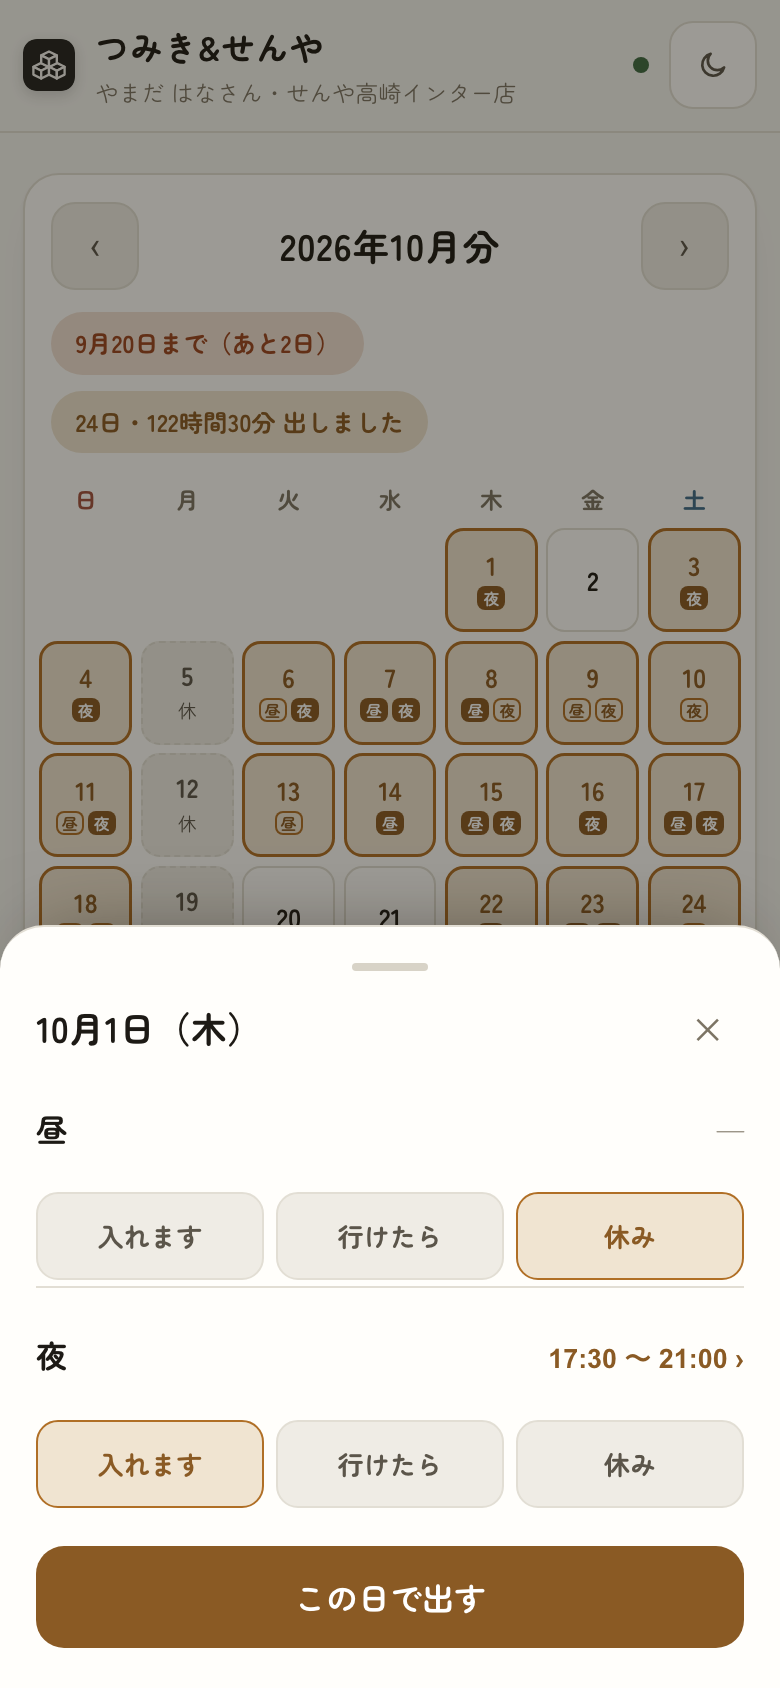
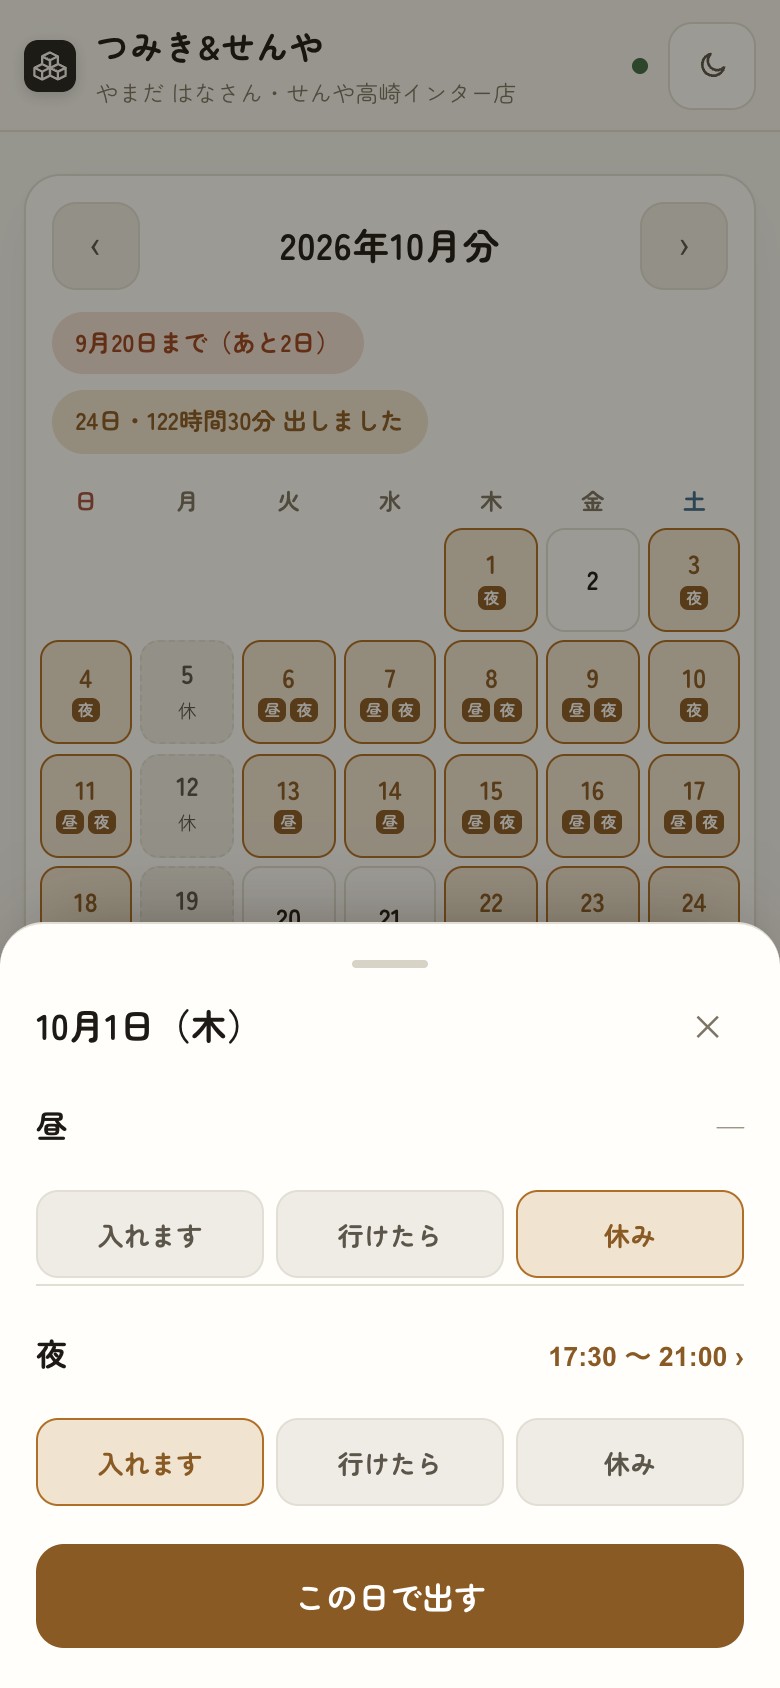
せんや：先行ご案内を「予告」として読みやすくした（文章を半分に・スタッフの画面を6枚に）
- 重複していた3か所（リード／制作の背景／くわしく）を圧縮：本文 1371字 → 708字
- 先行ご案内の但し書きを表紙の下へ移動（最初に見えるのが注意書きだった）
- 表紙に「8月31日におわたしします」を明示
- スタッフの画面を3枚→6枚に増やし、短い4点の説明を追加
- 「明日、おわたしするもの」と店長の3ステップを追加
- 情報パネル（816px）を折りたたみに
- 8幅×折りたたみ開閉の16通りで横スクロール0件・はみ出し0件を実測

Claude-Session: https://claude.ai/code/session_01DWoX3yqfatH4BJpkcV2QZm

diff --git a/senya-goannai.html b/senya-goannai.html
@@ -71,6 +71,28 @@ body{
 .as-about{font-size:14px; line-height:1.95; color:#3a3833; margin-top:14px;}
 .as-bg{font-size:14px; line-height:1.95; color:#3a3833; margin-top:14px;}
 .as-about strong,.as-bg strong{font-weight:700; color:var(--ink);}
+.fold{margin-top:14px; border:1px solid var(--line); border-radius:18px;
+  background:var(--card); overflow:hidden;}
+.fold > summary{list-style:none; cursor:pointer; padding:15px 18px; min-height:44px;
+  display:flex; align-items:center; justify-content:space-between; gap:12px;
+  font-size:14px; font-weight:700; color:var(--ink); line-height:1.7;}
+.fold > summary::-webkit-details-marker{display:none;}
+.fold > summary::after{content:'＋'; color:var(--accent); font-weight:700; flex:0 0 auto;}
+.fold[open] > summary::after{content:'－';}
+.fold[open] > summary{border-bottom:1px solid var(--line);}
+.fold .panel{border:none; border-radius:0; margin-top:0;}
+.mini{margin-top:14px; border:1px solid var(--line); border-radius:18px;
+  overflow:hidden; background:var(--card);}
+.mini > div{padding:14px 18px; border-top:1px solid var(--line);}
+.mini > div:first-child{border-top:none;}
+.mini b{display:block; font-size:14px; font-weight:700; line-height:1.7; color:var(--ink);}
+.mini span{display:block; font-size:13px; color:#3a3833; line-height:1.85; margin-top:3px;}
+.steps{list-style:none; margin-top:14px; display:grid; gap:8px;}
+.steps li{display:grid; grid-template-columns:auto minmax(0,1fr); gap:13px; align-items:baseline;
+  background:var(--card); border:1px solid var(--line); border-radius:14px; padding:13px 16px;
+  font-size:13.5px; line-height:1.8; color:#3a3833;}
+.steps .n{font-size:12px; font-weight:700; color:var(--accent); white-space:nowrap;}
+.steps b{font-weight:700; color:var(--ink);}
 .note{margin-top:14px; border-left:2px solid var(--ghost); padding:2px 0 2px 13px;
   font-size:12.5px; color:var(--sub); line-height:1.8;}
 
@@ -161,25 +183,25 @@ footer{margin-top:52px; padding-top:22px; border-top:1px solid var(--line);
 <body>
 <div class="wrap">
 
-  <div class="pre">
-    <span class="tag">先行ご案内</span>
-    <p class="txt">このページは<b>せんや様にだけ</b>お送りしています。一般には公開しておらず、検索にも出ません。<br>画面の写真は<b>すべて見本のデータ</b>です（実在の方のお名前は入っていません）。</p>
-  </div>
-
   <div class="as-head">
     <img class="as-icon" src="icon-tsumiki-senya-kanri.png" alt="つみき&amp;せんや アイコン" width="112" height="112">
     <div>
       <div class="as-name">つみき&amp;せんや</div>
       <div class="as-sub">シフト希望あつめ ／ Senya</div>
       <div class="as-actions">
-        <span class="as-buy is-soon">アプリ本体 <small>お渡し準備中</small></span>
+        <span class="as-buy is-soon">アプリ本体 <small>8月31日におわたしします</small></span>
         <a class="as-manual" href="tsumiki-senya-tsukaikata.html" target="_blank" rel="noopener">取扱説明書をひらく<span class="as-key-ar">→</span></a>
       </div>
     </div>
   </div>
 
+  <div class="pre">
+    <span class="tag">先行ご案内</span>
+    <p class="txt">このページは<b>せんや様にだけ</b>お送りしています。一般には公開しておらず、検索にも出ません。<br>画面の写真は<b>すべて見本のデータ</b>です（実在の方のお名前は入っていません）。</p>
+  </div>
+
   <!-- ① 簡潔な紹介 -->
-  <p class="as-about">スタッフは、自分だけのURLをひらいて<strong>働ける日をタップするだけ</strong>。店長の画面には全員ぶんが<strong>1枚のカレンダー</strong>で集まり、<strong>人手の足りない日が赤く</strong>出ます。LINEでバラバラに届く希望を書き写す手間と、「誰がまだ出していないか分からない」を無くすための道具です。組んだシフトは<strong>横向きの紙1枚</strong>に印刷して、そのまま貼り出せます。</p>
+  <p class="as-about">スタッフは自分だけのURLをひらいて、<strong>働ける日をタップするだけ</strong>。店長の画面には全員ぶんが<strong>1枚のカレンダー</strong>で集まり、<strong>人手の足りない日が赤く</strong>出ます。</p>
 
   <!-- 三本柱 -->
   <ul class="pts">
@@ -199,7 +221,7 @@ footer{margin-top:52px; padding-top:22px; border-top:1px solid var(--line);
 
   <!-- 制作の背景 -->
   <p class="as-h">制作の背景<span class="as-h-en">BACKGROUND</span></p>
-  <p class="as-bg">シフトづくりで本当に時間を食っているのは、<strong>「組むこと」ではなく「集めること」</strong>でした。LINE・口頭・紙のメモ——届き方がバラバラなので、まず一度どこかへ書き写さないと全体が見えない。書き写している間に新しい希望が届き、また書き直す。そして締切の日になって、やっと「あの人からまだ来ていない」と気づく。<br><br>そこで、このアプリは<strong>「集めるところ」だけを引き受けます。</strong>シフトを自動で組む機能は、あえて入れていません。誰をどこに入れるかは、お店の事情を知っている店長にしか決められないからです。この道具がするのは、<strong>判断に必要な材料を、書き写さずに1枚へまとめること</strong>だけです。<br><br>作るうえで、いちばん気をつけたのは<strong>「スタッフが迷わないこと」</strong>でした。使う方の中には、アプリに慣れていない方もいらっしゃいます。ですので――<b>インストールなし・会員登録なし・パスワードなし</b>。届いたURLをタップすれば、もう自分の画面が開いています。ほかの人の希望は見えません。押すのは「入れます」「行けたら」「休み」の3つだけ。<br><br>店長側も同じ考え方で、<strong>ふだん開く画面を「一覧」ひとつ</strong>にしました。スタッフの登録も設定も、月に一度も触らないものは右上の歯車の中へしまってあります。</p>
+  <p class="as-bg">シフトづくりで時間を食っているのは、<strong>組むことではなく集めること</strong>でした。だからこのアプリは、<strong>集めるところだけを引き受けます</strong>。誰をどこに入れるかは、お店の事情を知っている店長にしか決められないからです。するのは、<strong>判断に必要な材料を、書き写さずに1枚へまとめること</strong>だけです。</p>
 
   <!-- ② プレビュー -->
   <p class="as-h">プレビュー<span class="as-h-en">PREVIEW</span></p>
@@ -215,9 +237,18 @@ footer{margin-top:52px; padding-top:22px; border-top:1px solid var(--line);
 
   <p class="pv-group-k">スタッフの画面<span class="pv-group-en">STAFF ／ iPhone</span></p>
   <div class="as-shots">
-    <figure class="as-shot"><div class="pv pv-zoomable"><img class="pv-img" src="senya-shots/senya-ph-my.png" alt="スタッフのカレンダー画面" loading="lazy" width="780" height="1688"></div><figcaption>働ける日をタップするだけ</figcaption></figure>
-    <figure class="as-shot"><div class="pv pv-zoomable"><img class="pv-img" src="senya-shots/senya-ph-mysel.png" alt="入れます・行けたら・休みを選ぶ画面" loading="lazy" width="780" height="1688"></div><figcaption>「入れます」「行けたら」「休み」</figcaption></figure>
+    <figure class="as-shot"><div class="pv pv-zoomable"><img class="pv-img" src="senya-shots/senya-ph-my0.png" alt="届いたURLをひらいたところ" loading="lazy" width="780" height="1688"></div><figcaption>URLをひらくと、もう自分の画面</figcaption></figure>
+    <figure class="as-shot"><div class="pv pv-zoomable"><img class="pv-img" src="senya-shots/senya-ph-mysel.png" alt="入れます・行けたら・休みを選ぶ画面" loading="lazy" width="780" height="1688"></div><figcaption>押すのは「入れます」「行けたら」「休み」</figcaption></figure>
+    <figure class="as-shot"><div class="pv pv-zoomable"><img class="pv-img" src="senya-shots/senya-ph-mytime.png" alt="時間をその場で直せる画面" loading="lazy" width="780" height="1688"></div><figcaption>時間はその場で直せる</figcaption></figure>
+    <figure class="as-shot"><div class="pv pv-zoomable"><img class="pv-img" src="senya-shots/senya-ph-my.png" alt="スタッフのカレンダー画面" loading="lazy" width="780" height="1688"></div><figcaption>出し終わったら、お店に✓が届く</figcaption></figure>
+    <figure class="as-shot"><div class="pv pv-zoomable"><img class="pv-img" src="senya-shots/senya-ph-myusual.png" alt="いつも入れる曜日の設定画面" loading="lazy" width="780" height="1688"></div><figcaption>「いつもの曜日」で、翌月からは楽に</figcaption></figure>
     <figure class="as-shot"><div class="pv pv-zoomable"><img class="pv-img" src="senya-shots/senya-ph-mydone.png" alt="決まったシフトの画面" loading="lazy" width="780" height="1688"></div><figcaption>決まったシフトを受け取る</figcaption></figure>
+  </div>
+  <div class="mini">
+    <div><b>押すのは3つだけ</b><span>「入れます」「行けたら」「休み」。それ以上のことは覚えなくて大丈夫です。</span></div>
+    <div><b>なにも要りません</b><span>インストールなし・会員登録なし・パスワードなし。届いたURLをタップすれば、もう自分の画面です。</span></div>
+    <div><b>ほかの人のは見えません</b><span>お名前も希望も、自分のぶんだけが返ります。</span></div>
+    <div><b>決まったら届きます</b><span>「カレンダーに追加」で、1か月ぶんの出勤がスマホの予定表に入ります。</span></div>
   </div>
 
   <p class="pv-group-k">パソコンでも<span class="pv-group-en">DESKTOP</span></p>
@@ -241,24 +272,39 @@ footer{margin-top:52px; padding-top:22px; border-top:1px solid var(--line);
   <div class="as-star">
     <div class="star-row">
       <p class="star-k">こんな場面で<span class="star-en">SITUATION</span></p>
-      <p class="star-v">飲食店の、来月のシフトづくり。スタッフそれぞれの都合が、LINEや口頭でバラバラに届く。</p>
+      <p class="star-v">飲食店の、来月のシフトづくり。都合がLINEや口頭でバラバラに届く。</p>
     </div>
     <div class="star-row">
       <p class="star-k">困っていたこと<span class="star-en">TASK</span></p>
-      <p class="star-v">届いた希望を一度どこかへ書き写さないと全体が見えない。書いている間に新しい希望が届き、また直す。誰がまだ出していないかも、追いかけないと分からない。人手が足りない日は、全部そろってから目で探すことになる。</p>
+      <p class="star-v">一度どこかへ書き写さないと全体が見えない。書いている間に新しい希望が届き、また直す。</p>
     </div>
     <div class="star-row">
       <p class="star-k">アプリがすること<span class="star-en">ACTION</span></p>
-      <p class="star-v">スタッフには<strong>ひとりずつ専用のURL</strong>をお渡しします。開いて働ける日をタップし、「入れます」「行けたら」を選ぶだけ。インストールも会員登録も要りません。店長の画面には全員ぶんが1枚のカレンダーで集まり、<strong>ほしい人数を下回った日が赤く</strong>出ます。あとは名前を押していくだけでシフトが決まり、<strong>横1枚に印刷</strong>できます。「みんなに知らせる」を押すと、スタッフの画面にも出ます。</p>
+      <p class="star-v">スタッフは<strong>専用のURL</strong>で日をタップ。店長の画面に全員ぶんが<strong>1枚</strong>で集まる。</p>
     </div>
     <div class="star-row is-result">
       <p class="star-k">こう変わる<span class="star-en">RESULT</span></p>
-      <p class="star-v">書き写す作業がなくなります。足りない日は、探さなくても<strong>開いた瞬間に赤で出ます</strong>。誰がまだ出していないかも一目。決まったシフトは紙にもなり、スタッフのスマホの予定表にもそのまま入るので、<strong>「言った・聞いてない」が起きにくくなります</strong>。</p>
+      <p class="star-v">書き写す作業が消える。足りない日は<strong>開いた瞬間に赤で出る</strong>。決まったシフトは紙にもスマホにも。</p>
     </div>
   </div>
 
+  <!-- おわたし -->
+  <p class="as-h">明日、おわたしするもの<span class="as-h-en">HANDOVER</span></p>
+  <div class="mini">
+    <div><b>店長用アプリのURL</b><span>プロダクトキーと、お店の合言葉をいっしょにお渡しします。</span></div>
+    <div><b>取扱説明書</b><span>全40項目。店長ぶんとスタッフぶんの両方が入っています。</span></div>
+  </div>
+  <ol class="steps">
+    <li><span class="n">01</span><div><b>設定を合わせる</b>／昼と夜の時間・ほしい人数・定休日・締切日</div></li>
+    <li><span class="n">02</span><div><b>スタッフを登録する</b>／お名前を入れるだけ。その人だけのURLができます</div></li>
+    <li><span class="n">03</span><div><b>URLを配る</b>／ひとりずつ「送る文をコピー」してLINEで送るだけ</div></li>
+  </ol>
+  <p class="note">はじめて開くと画面が暗くなり、押すところだけが光ります。その案内どおりに進めば、<b>5分ほど</b>で準備が終わります。集まりはじめるのは<b>10月分から</b>（締切は9月20日）です。</p>
+
   <!-- 情報 -->
   <p class="as-h">情報<span class="as-h-en">INFORMATION</span></p>
+  <details class="fold">
+  <summary>くわしい情報をみる</summary>
   <div class="panel">
     <div class="dl">
       <div class="dl-row"><div class="dl-k">制作</div><div class="dl-v">つみき</div></div>
@@ -272,6 +318,7 @@ footer{margin-top:52px; padding-top:22px; border-top:1px solid var(--line);
     </div>
     <p class="note">スタッフの方からは、<b>ほかの方のお名前も希望も見えません</b>。自分のぶんだけが返る作りになっています。</p>
   </div>
+  </details>
 
   <footer>
     つみき（Tsumiki）<br>
